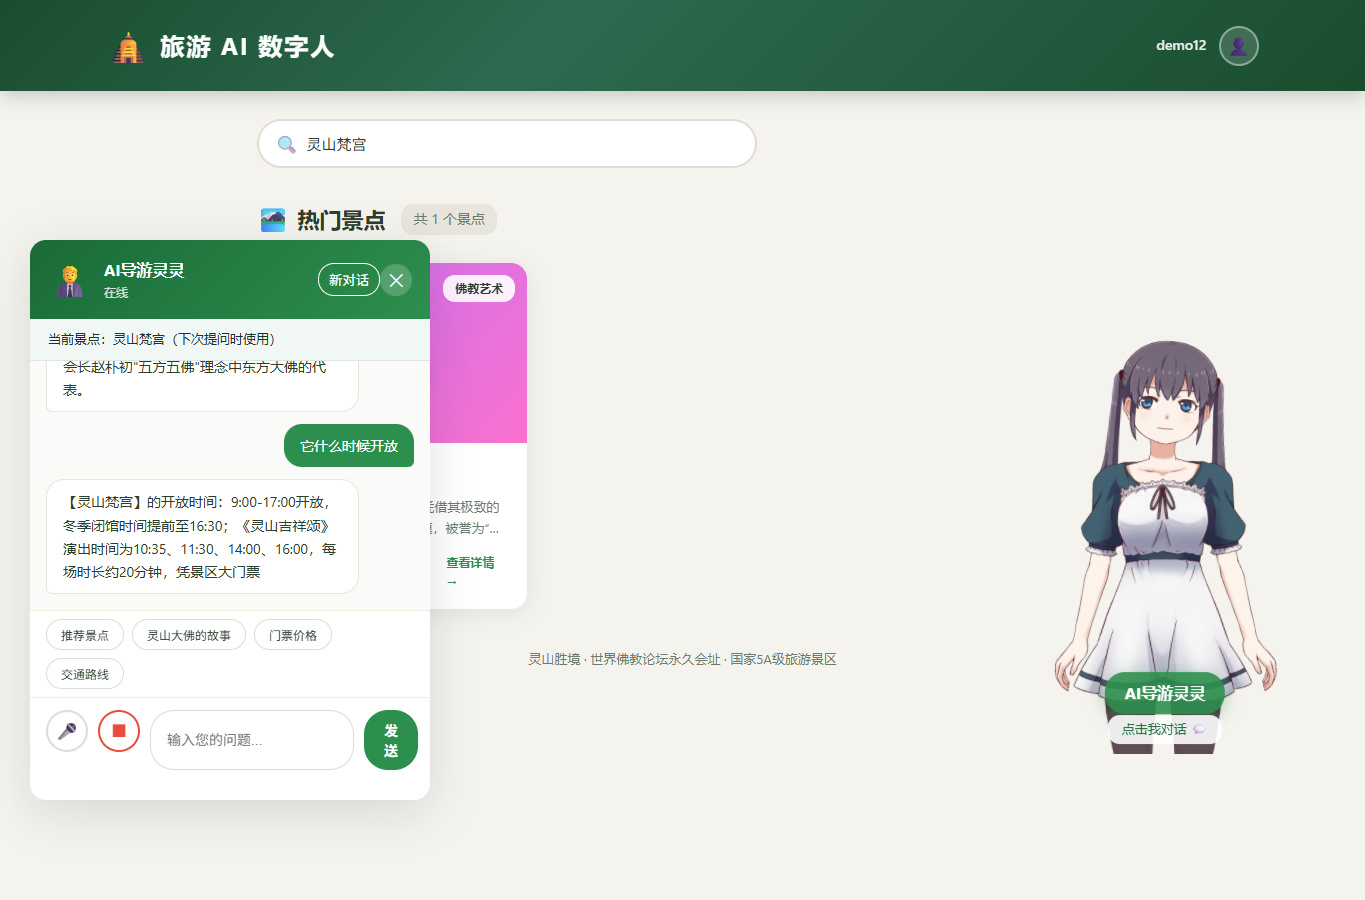
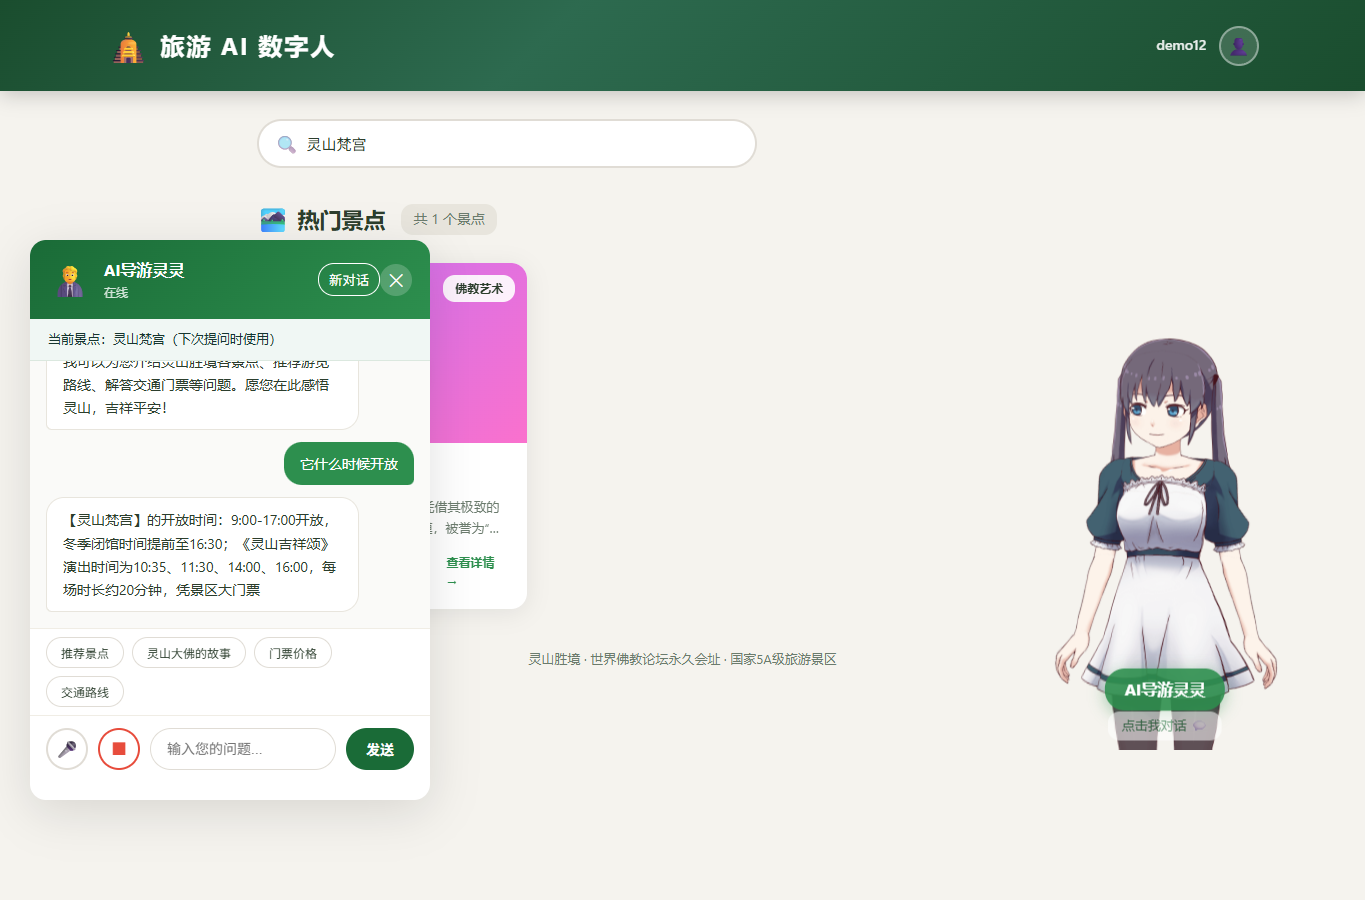
fix: restore session context and allow named spot changes

diff --git a/src/main/resources/static/js/main.js b/src/main/resources/static/js/main.js
@@ -28,6 +28,7 @@
     var allSpots = [], isChatOpen = false, pendingChats = 0;
     var conversationId = null;
     var selectedSpot = null, resettingConversation = false;
+    var pendingSpot = null, contextReady = false;
     var chatContext = S('chatContext');
     var api = window.AuthGuard.apiFetch;
     // 从登录信息读取（localStorage 只作显示缓存，真实身份以 /api/auth/me 为准）
@@ -38,6 +39,14 @@
     function loadSpots() {
         fetch('/api/spots').then(function(r) { return r.json(); }).then(function(d) {
             allSpots = d; renderSpots(d);
+            return api('/api/chat/context').then(function(r) {
+                if (!r.ok) throw new Error('context ' + r.status);
+                return r.json();
+            }).then(function(snapshot) {
+                conversationId = snapshot.conversationId || null;
+                selectedSpot = allSpots.find(function(spot) { return spot.id === snapshot.spotId; }) || null;
+                contextReady = true; renderChatContext();
+            }).catch(function() { chatContext.textContent = '会话状态未同步，请点击“新对话”后提问。'; });
         }).catch(function() {
             spotsGrid.innerHTML = '<p style="grid-column:1/-1;text-align:center;padding:60px;color:#999;">景点数据加载中...</p>';
         });
@@ -101,11 +110,12 @@
         ask.textContent = '问问 AI 导游';
         ask.addEventListener('click', function(e) {
             e.stopPropagation();
-            if (pendingChats || resettingConversation) {
+            if (pendingChats || resettingConversation || !contextReady) {
                 ask.textContent = '请等待当前请求结束，再选择景点';
                 return;
             }
             selectedSpot = s;
+            pendingSpot = s;
             renderChatContext(); closeDetail(); openChat();
         });
         modalBody.appendChild(ask);
@@ -191,6 +201,7 @@
     }
 
     // ===== 聊天面板 =====
+    // REQ-040: render local selection/server snapshot as text; no requests. See docs/spot_chat_entry.md#L3.
     function renderChatContext() {
         chatContext.textContent = selectedSpot ? '当前景点：' + selectedSpot.name + '（下次提问时使用）' : '当前：通用导览';
     }
@@ -227,7 +238,7 @@
             return r.json();
         }).then(function(data) {
             conversationId = data.conversationId;
-            selectedSpot = null; renderChatContext();
+            selectedSpot = null; pendingSpot = null; contextReady = true; renderChatContext();
             stopTts();
             chatMessages.innerHTML = '';
             addMsg('bot', '新对话已开始。您可以继续提问。');
@@ -235,14 +246,14 @@
           .then(function() { resettingConversation = false; chatNewBtn.disabled = false; });
     });
     function sendMessage() {
-        if (pendingChats || resettingConversation) return;
+        if (pendingChats || resettingConversation || !contextReady) return;
         // 立即停止当前所有说话和口型
         stopTts();
         var text = chatInput.value.trim(); if (!text) return;
         pendingChats++; chatNewBtn.disabled = true;
         addMsg('user', text); chatInput.value = ''; showTyping();
         var body = { message: text, conversationId: conversationId };
-        if (selectedSpot) body.spotId = selectedSpot.id;
+        if (pendingSpot) body.spotId = pendingSpot.id;
         if (currentInterest) body.interest = currentInterest;
 
         api('/api/chat', {
@@ -255,6 +266,7 @@
             return r.json();
         }).then(function(d) {
             conversationId = d.conversationId || conversationId;
+            pendingSpot = null;
             selectedSpot = allSpots.find(function(spot) { return spot.id === d.spotId; }) || null;
             renderChatContext();
             removeTyping();

diff --git a/tests/frontend/spot-chat.test.js b/tests/frontend/spot-chat.test.js
@@ -6,6 +6,7 @@ const {createEnv, loadScript, flush, response} = require('./harness');
 test('detail selects real spotId without sending; followups, reopening and reset preserve clear context', async () => {
     const spots = [1,2].map(id => ({id,name:'景点'+id,address:'地址',brief:'简介',history:'故事',highlights:[]}));
     const calls=[];
+    let currentSpot = null;
     const env=createEnv({fetch(url,options) {
         if(url==='/api/spots') return response(200,spots);
         if(url==='/api/auth/me') return response(200,{username:'alice',role:'GUEST'});
@@ -13,7 +14,8 @@ test('detail selects real spotId without sending; followups, reopening and reset
         if(url==='/api/chat/new') return response(200,{conversationId:'new-room',spotId:null});
         if(url==='/api/chat') {
             const body=JSON.parse(options.body); calls.push(body);
-            return response(200,{reply:'回答',conversationId:'room',spotId:body.spotId || null});
+            currentSpot = body.spotId || currentSpot;
+            return response(200,{reply:'回答',conversationId:'room',spotId:currentSpot});
         }
         return response(200,{});
     }});
@@ -29,15 +31,33 @@ test('detail selects real spotId without sending; followups, reopening and reset
     assert.equal(calls.length,0);
     assert.match(el('chatContext').textContent,/景点1/);
     await send('它有什么故事'); assert.equal(calls[0].spotId,1);
+    await send('它什么时候开放'); assert.equal('spotId' in calls[1],false);
     click(el('chatPanelClose'));click(el('chatFab'));
     assert.match(el('chatContext').textContent,/景点1/);
-    assert.equal(calls.length,1);
+    assert.equal(calls.length,2);
     select(1);await send('它什么时候开放');
-    assert.equal(calls[1].spotId,2);assert.equal(calls[1].conversationId,'room');
+    assert.equal(calls[2].spotId,2);assert.equal(calls[2].conversationId,'room');
     click(el('chatNewBtn'));await flush(env);
     assert.match(el('chatContext').textContent,/通用导览/);
-    await send('推荐路线');assert.equal('spotId' in calls[2],false);
-    assert.equal(calls[2].conversationId,'new-room');
+    await send('推荐路线');assert.equal('spotId' in calls[3],false);
+    assert.equal(calls[3].conversationId,'new-room');
+});
+
+test('reload restores server context and text can switch it without sending a stale spotId', async () => {
+    let body;
+    const env=createEnv({fetch(url,options) {
+        if(url==='/api/spots') return response(200,[{id:1,name:'旧景点',address:'地址'},{id:2,name:'新景点',address:'地址'}]);
+        if(url==='/api/chat/context') return response(200,{conversationId:'existing',spotId:1});
+        if(url==='/api/auth/csrf') return response(200,{headerName:'X-XSRF-TOKEN',token:'test'});
+        if(url==='/api/chat') {body=JSON.parse(options.body);return response(200,{reply:'新景点回答',spotId:2,conversationId:'existing'});}
+        return response(200,{});
+    }});
+    loadScript(env,'security.js');loadScript(env,'main.js');await flush(env);
+    const el=id=>env.document.getElementById(id);
+    assert.match(el('chatContext').textContent,/旧景点/);
+    el('chatInput').value='新景点是什么';el('chatSendBtn').dispatch('click');await flush(env);
+    assert.equal(body.conversationId,'existing');assert.equal('spotId' in body,false);
+    assert.match(el('chatContext').textContent,/新景点/);
 });
 
 test('pending question cannot race a new spot selection or send twice', async () => {

diff --git a/src/main/resources/static/index.html b/src/main/resources/static/index.html
@@ -91,7 +91,7 @@
       <button class="chat-new-btn" id="chatNewBtn" type="button" title="开始新对话">新对话</button>
       <button class="chat-panel-close" id="chatPanelClose">✕</button>
     </div>
-    <div class="chat-context" id="chatContext" role="status" aria-live="polite">当前：通用导览</div>
+    <div class="chat-context" id="chatContext" role="status" aria-live="polite">正在同步会话状态…</div>
     <div class="chat-messages" id="chatMessages">
       <div class="chat-msg bot"><div class="msg-bubble">阿弥陀佛！我是您的AI导游灵灵 👋<br>我可以为您介绍灵山胜境各景点、推荐游览路线、解答交通门票等问题。愿您在此感悟灵山，吉祥平安！</div></div>
     </div>

diff --git a/scripts/smoke_teacher_project.py b/scripts/smoke_teacher_project.py
@@ -132,6 +132,8 @@ def verify(jar: Path, java: str, port: int, timeout: float) -> dict:
 
                 # REQ-039: real cookie/CSRF requests, distinct visitors and spot switches.
                 assert chat.get("conversationId"), "Server must establish a conversation id."
+                snapshot = json.loads(fetch(base + "/api/chat/context", opener=opener))
+                assert snapshot["conversationId"] == chat["conversationId"]
                 first, second = spots[0], spots[1]
                 opening = json.loads(fetch(base + "/api/chat",
                     {"message":"它什么时候开放", "spotId":first["id"],
@@ -145,6 +147,7 @@ def verify(jar: Path, java: str, port: int, timeout: float) -> dict:
                 assert second["history"][:20] in switched["reply"], "Story follow-up must use the new place's history."
                 other = make_opener()
                 other_csrf = json.loads(fetch(base + "/api/auth/csrf", opener=other))
+                assert json.loads(fetch(base + "/api/chat/context", opener=other))["conversationId"] is None
                 stolen_status, _ = status_of(base + "/api/chat",
                     {"message":"偷看", "conversationId":chat["conversationId"]},
                     {other_csrf["headerName"]:other_csrf["token"]}, other)

diff --git a/src/test/java/com/guide/service/ConversationServiceTest.java b/src/test/java/com/guide/service/ConversationServiceTest.java
@@ -108,6 +108,20 @@ class ConversationServiceTest {
                 () -> service.chat(session,request("   ",null,null))).getRawStatusCode());
     }
 
+    @Test void snapshotRestoresOnlyCurrentOwnersUnexpiredSpot() {
+        answer(); as("alice");
+        Spot place=spot(11,"灵山大佛");
+        when(spots.getSpotById(11)).thenReturn(Optional.of(place));
+        MockHttpSession session=new MockHttpSession();
+        String id=service.chat(session,request("介绍",11,null)).getConversationId();
+        assertEquals(id,service.current(session).getConversationId());
+        assertEquals(11,service.current(session).getSpotId());
+        assertNull(service.current(new MockHttpSession()).getConversationId());
+        as("bob");assertNull(service.current(session).getConversationId());
+        as("alice");clock.now += 20 * 60 * 1000L + 1;
+        assertNull(service.current(session).getConversationId());
+    }
+
     static class MutableClock extends Clock {
         long now = 1_000_000L;
         public ZoneId getZone() { return ZoneOffset.UTC; }

diff --git a/src/main/java/com/guide/service/ConversationService.java b/src/main/java/com/guide/service/ConversationService.java
@@ -54,6 +54,17 @@ public class ConversationService {
         }
     }
 
+    /** REQ-040: read this session's unexpired ID/spot without history or side effects.
+     * Input: HTTP Session. Output: current snapshot or null fields; no normal API errors.
+     * See API-040 in docs/api_reference.md; change identity/expiry policy alongside chat(). */
+    public Snapshot current(HttpSession session) {
+        synchronized (session) {
+            State state = (State) session.getAttribute(ATTRIBUTE);
+            return state != null && state.owner.equals(owner()) && clock.millis() - state.lastActive <= IDLE_MILLIS
+                    ? state.snapshot() : new Snapshot(null, null);
+        }
+    }
+
     /**
      * REQ-039: validate request/session/spot and append only a successful model or fallback reply.
      * Input: session and message with optional ID/spot. Output: reply with bound ID/spot.

diff --git a/src/main/java/com/guide/controller/ChatController.java b/src/main/java/com/guide/controller/ChatController.java
@@ -31,4 +31,10 @@ public class ChatController {
     public ResponseEntity<ConversationService.Snapshot> start(HttpSession session) {
         return ResponseEntity.ok(conversationService.start(session));
     }
+
+    /** REQ-040: restore only the calling session's ID and spot, never its messages. */
+    @GetMapping("/chat/context")
+    public ConversationService.Snapshot current(HttpSession session) {
+        return conversationService.current(session);
+    }
 }

diff --git a/docs/spot_chat_entry.md b/docs/spot_chat_entry.md
@@ -2,19 +2,19 @@
 
 ## REQ-040：行为与状态
 
-景点详情底部的“问问 AI 导游”关闭详情并打开聊天，显示所选景点。入口不自动发消息、不清空输入草稿；下一次主动提问才携带 `spotId`。关闭聊天后重开仍显示之前的选择。点击“新对话”成功后清除服务端历史与景点，回到通用导览；失败时保留原选择。正在等待问答或重开响应时禁止再次发送及切换景点，避免旧回复覆盖新选择。
+景点详情底部的“问问 AI 导游”关闭详情并打开聊天，显示所选景点。入口不自动发消息、不清空输入草稿；下一次主动提问才携带 `spotId`，成功后不再固定发送该字段，以便服务端按明确景点名切换。页面加载先通过快照恢复会话与景点，同步失败会阻止发送并提示点击“新对话”。关闭聊天后重开仍显示之前的选择。点击“新对话”成功后清除服务端历史与景点，回到通用导览；失败时保留原选择。正在等待问答或重开响应时禁止再次发送及切换景点，避免旧回复覆盖新选择。
 
-[main.js](../src/main/resources/static/js/main.js#L98) 绑定入口，[上下文标签](../src/main/resources/static/index.html#L94) 用纯文本显示景点，[样式](../src/main/resources/static/css/style.css#L524) 保证按钮至少 44px 高。搜索与详情阅读保留原流程；不涉及 GPS 或地图。
+[main.js](../src/main/resources/static/js/main.js#L107) 绑定入口，[上下文标签](../src/main/resources/static/index.html#L94) 用纯文本显示景点，[样式](../src/main/resources/static/css/style.css#L524) 保证按钮至少 44px 高。搜索与详情阅读保留原流程；不涉及 GPS 或地图。
 
 ## API-040：复用会话接口
 
-沿用 [API-039](api_reference.md#L82)，不新增后端接口。发送示例为 `POST /api/chat`，JSON `{"message":"它有什么故事","spotId":11,"conversationId":"服务端返回的ID"}`，响应中的 `spotId` 用来同步展示。Cookie、CSRF、400/403/410 错误码及六轮/20 分钟限制继续适用。
+沿用 [API-039](api_reference.md#L82)，新增只读 `GET /api/chat/context`：只返回当前 Cookie 所属会话的 `{conversationId,spotId}`，没有记录、换账号或过期时两字段为 null；不返回消息，不刷新闲置计时。服务实现见 [ConversationService.current](../src/main/java/com/guide/service/ConversationService.java#L60)。发送示例为 `POST /api/chat`，JSON `{"message":"它有什么故事","spotId":11,"conversationId":"服务端返回的ID"}`，响应中的 `spotId` 用来同步展示。Cookie、CSRF、400/403/410 错误码及六轮/20 分钟限制继续适用。
 
 ## TEST-040：验收与限制
 
-[spot-chat.test.js](../tests/frontend/spot-chat.test.js#L6) 的第一项测试验证两个景点的真实请求字段、代词追问、重开、通用对话与无自动发送；第二项测试验证忙碌时不能切换或重复发送。命令：`node --test tests/frontend/*.test.js`，预期 31/31；失败时检查 `selectedSpot`、`resettingConversation` 与请求体的 `spotId`。
+[spot-chat.test.js](../tests/frontend/spot-chat.test.js#L6) 的第一项测试验证两个景点的真实请求字段、代词追问、重开、通用对话与无自动发送；第二项测试验证忙碌时不能切换或重复发送。命令：`node --test tests/frontend/*.test.js`，预期 32/32；失败时检查 `selectedSpot`、`resettingConversation` 与请求体的 `spotId`。
 
-运行 `mvn -o verify`（47/47）、文档链接检查和无模型密钥的 JAR HTTP 冒烟。Edge 浏览器真实操作验证灵山大佛的故事 → 灵山梵宫开放时间，390×844 手机与桌面截图见下方。真实第三方模型与 Android 真机没有验收。
+运行 `mvn -o verify`（48/48）、文档链接检查和无模型密钥的 JAR HTTP 冒烟。Edge 浏览器真实操作验证灵山大佛的故事 → 灵山梵宫开放时间，390×844 手机与桌面截图见下方。真实第三方模型与 Android 真机没有验收。
 
 此分支基于 #11 / PR #25，需在 #5/#6/#11 整合后复测再合入 main。
 

diff --git a/docs/api_reference.md b/docs/api_reference.md
@@ -81,7 +81,7 @@ API-004 响应示例：`{"name":"灵灵","welcomeMessage":"...","voiceType":"fem
 
 ## API-039 会话聊天
 
-对应 [REQ-039](conversation_context.md#L3)。两条接口均允许游客访问、以 Cookie 绑定会话，写请求须携带现有 CSRF 令牌。服务函数是 [ChatController.chat](../src/main/java/com/guide/controller/ChatController.java#L24) → [ConversationService.chat](../src/main/java/com/guide/service/ConversationService.java#L63) 和 [ChatController.start](../src/main/java/com/guide/controller/ChatController.java#L31) → [ConversationService.start](../src/main/java/com/guide/service/ConversationService.java#L49)。
+对应 [REQ-039](conversation_context.md#L3)。两条接口均允许游客访问、以 Cookie 绑定会话，写请求须携带现有 CSRF 令牌。服务函数是 [ChatController.chat](../src/main/java/com/guide/controller/ChatController.java#L24) → [ConversationService.chat](../src/main/java/com/guide/service/ConversationService.java#L74) 和 [ChatController.start](../src/main/java/com/guide/controller/ChatController.java#L31) → [ConversationService.start](../src/main/java/com/guide/service/ConversationService.java#L49)。
 
 | API | 方法与路径 | 请求参数 | 响应字段 | 错误码 |
 |---|---|---|---|---|
@@ -118,3 +118,6 @@ X-XSRF-TOKEN: <token>
 ## API-040 景点详情提问
 
 复用 API-039 的 `POST /api/chat` 与 `/api/chat/new`，参数/响应/错误码/服务函数/示例保持上节约定。入口和数据流见 [交互约定](spot_chat_entry.md#L9)，测试命令 `node --test tests/frontend/*.test.js`。
+
+
+API-040b：`GET /api/chat/context` 无请求参数，Cookie 识别当前会话；200 响应示例 `{"conversationId":"服务端ID","spotId":11}`，空/过期/其他身份时两字段为 `null`。服务函数 [ConversationService.current](../src/main/java/com/guide/service/ConversationService.java#L60)，控制器 [ChatController.current](../src/main/java/com/guide/controller/ChatController.java#L37)。不返回聊天历史、不接受外部会话 ID，无业务错误码；测试 `mvn -o -Dtest=ConversationServiceTest test`，HTTP 验证由冒烟脚本覆盖。

diff --git a/docs/test_reference.md b/docs/test_reference.md
@@ -94,3 +94,6 @@ node --test tests/frontend/*.test.js
 ## TEST-040 景点提问
 
 对应 REQ-040。文件、测试函数行为、命令、预期和失败排查见 [验收记录](spot_chat_entry.md#L13)。桌面与手机布局通过实际浏览器操作验证，截图附在同一文档。
+
+
+TEST-040 的具体 Node 用例：[detail selects real spotId without sending; followups, reopening and reset preserve clear context](../tests/frontend/spot-chat.test.js#L6)、[reload restores server context and text can switch it without sending a stale spotId](../tests/frontend/spot-chat.test.js#L46)、[pending question cannot race a new spot selection or send twice](../tests/frontend/spot-chat.test.js#L63)。命令 `node --test tests/frontend/*.test.js`，预期 32/32；异常时检查详情待发送选择、服务端快照恢复和忙碌标记。Java [snapshotRestoresOnlyCurrentOwnersUnexpiredSpot](../src/test/java/com/guide/service/ConversationServiceTest.java#L111) 用 `mvn -o -Dtest=ConversationServiceTest test` 验证当前/其他身份/过期快照；失败查 owner 与 Clock，完整 Java 预期 48/48。

diff --git a/docs/program_index.md b/docs/program_index.md
@@ -42,4 +42,4 @@
 
 ## 景点上下文入口
 
-[main.js 入口绑定](../src/main/resources/static/js/main.js#L98)、[上下文渲染](../src/main/resources/static/js/main.js#L194)，需求与测试见 [REQ-040](spot_chat_entry.md#L3)。
+[main.js 入口绑定](../src/main/resources/static/js/main.js#L107)、[上下文渲染](../src/main/resources/static/js/main.js#L205)，需求与测试见 [REQ-040](spot_chat_entry.md#L3)。
